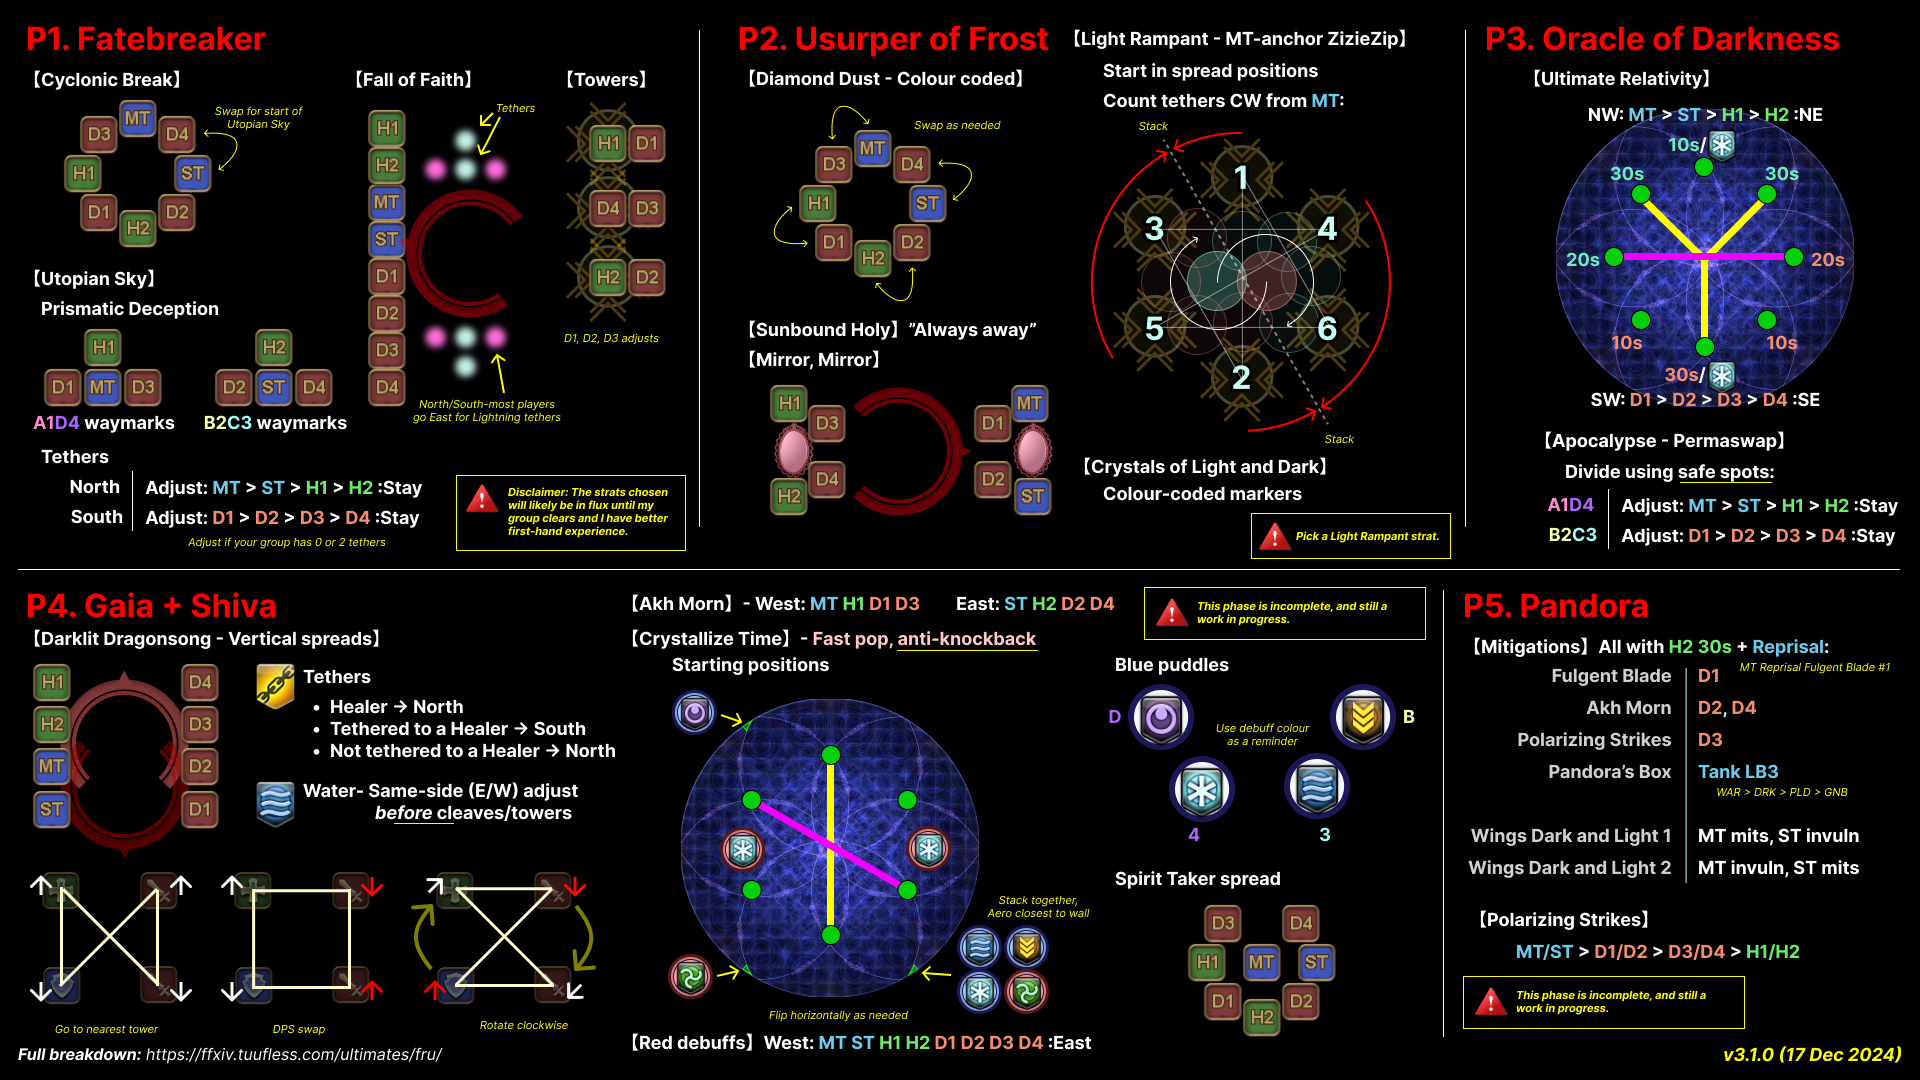
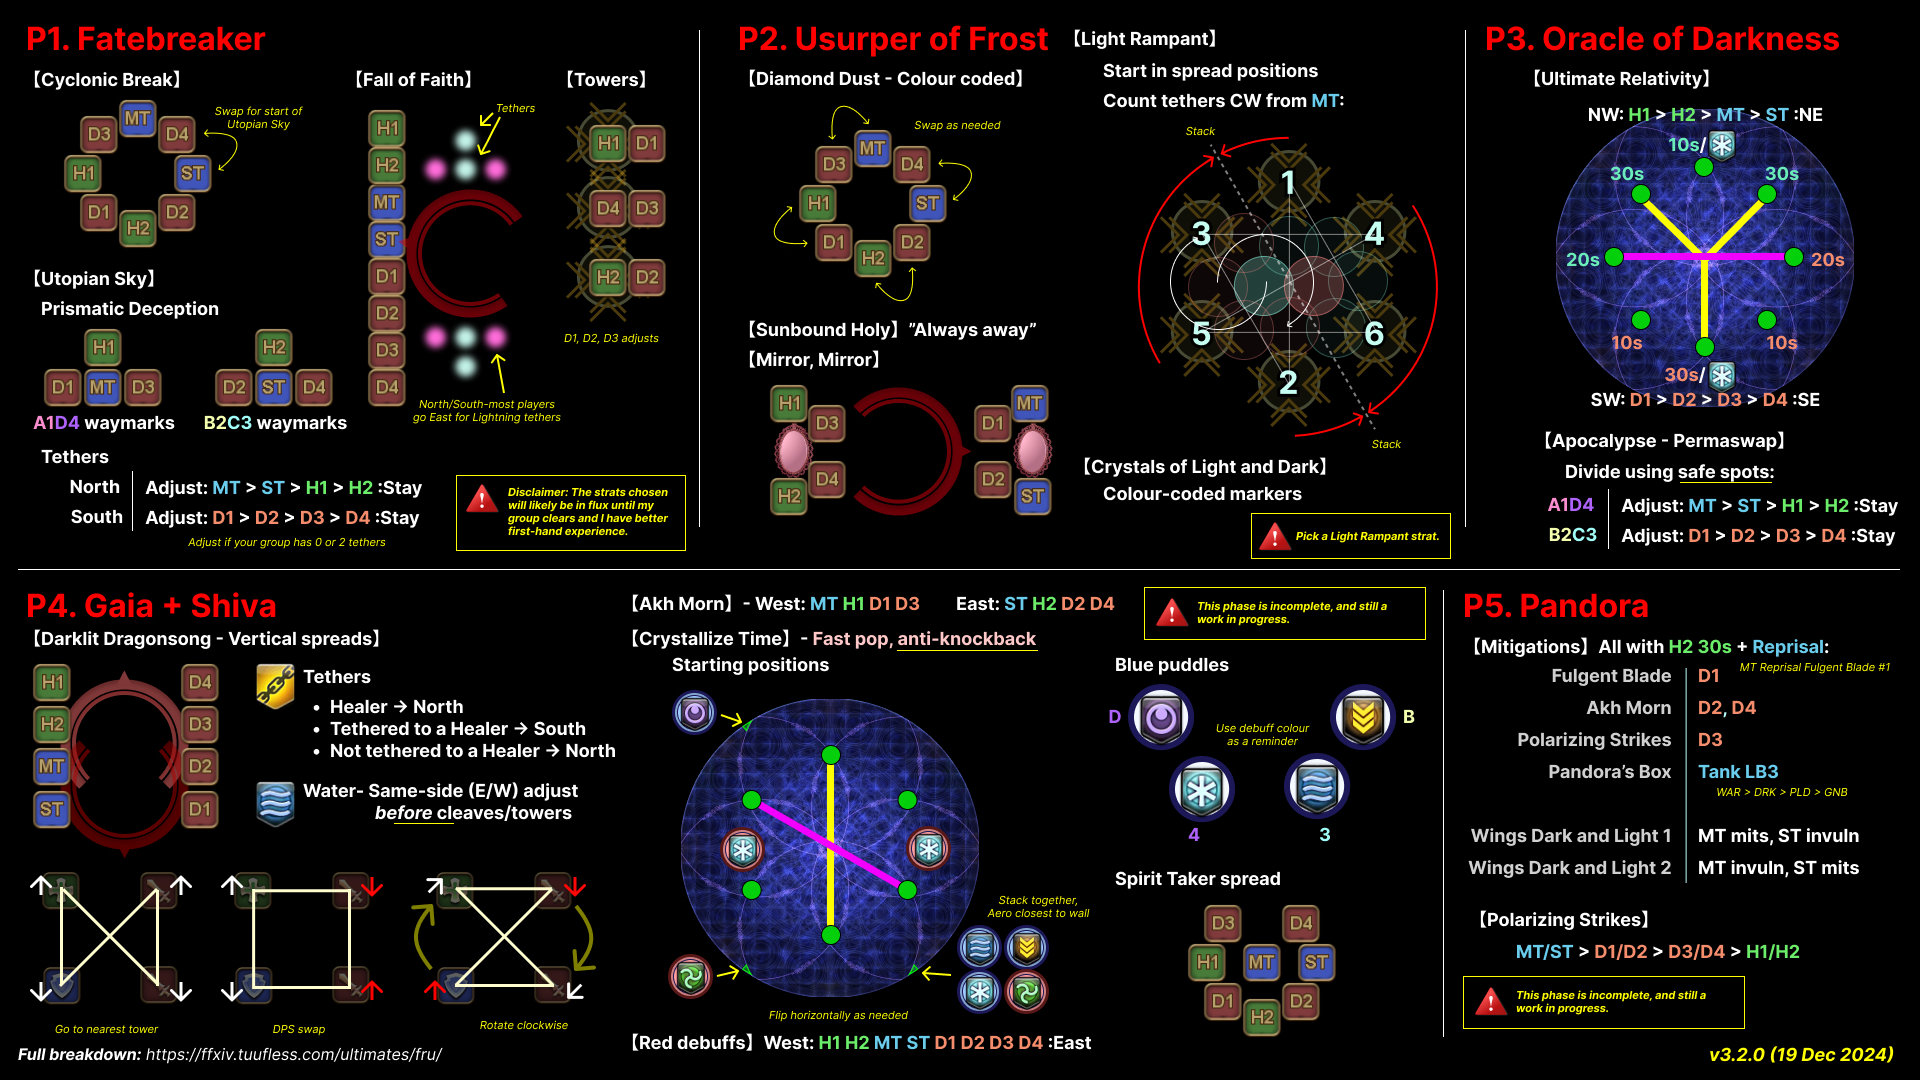
Update priorities to H1 H2 MT ST

diff --git a/_ultimates/fru/03_oracle_of_darkness.en.md b/_ultimates/fru/03_oracle_of_darkness.en.md
@@ -1,6 +1,6 @@
 ---
 layout: default
-title: 3. Oracle of Darkness v1.0
+title: 3. Oracle of Darkness v1.1
 parent: Lv 100. FRU (WIP)
 nav_order: 3
 has_children: false
@@ -8,11 +8,11 @@ has_toc: false
 permalink: /ultimates/fru/03_oracle_of_darkness/
 ---
 
-# Oracle of Darkness v1.0
+# Oracle of Darkness v1.1
 
-This is version 1.0, that's based off the Google Doc. The main differences are:
+This is version 1.1, that's based off the Google Doc. The main differences are:
 
-- The priority for *Ultimate Relativity* is the standard T > H > M > R.
+- The priority for *Ultimate Relativity* is "H > T > **M > R**" instead of "H > T > **R > M**".
 - *Apocalypse* is resolved with the permaswap, coloured safespots strat.
 
 <div style="background-color: #200 ; padding: 10px; border: 1px solid;">
@@ -24,6 +24,7 @@ until I have better first-hand experience.</b></p>
 - [**Apocalypse - Permaswap, Safespot Colour**](#apocalypse---permaswap-safespot-colour)
 - [**Frequently Asked Questions**](#frequently-asked-questions)
 - [**Troubleshooting**](#troubleshooting)
+- [**Changelog**](#changelog)
 
 The Oracle of Darkness starts south, and immediately opens with *Hell's
 Judgment*, which sets everyone to 1HP.
@@ -69,7 +70,7 @@ better match the datacenter's conventions.
       <ul>
         <li>For the tank/healer long Fires, use the following priority:
           <ul>
-            <li><b>NW: </b> MT > ST > H1 > H2 <b>:NE</b></li>
+            <li><b>NW: </b> H1 > H2 > MT > ST <b>:NE</b></li>
           </ul>
         </li>
         <li>For the DPS short Fires, use the following priority:
@@ -552,6 +553,22 @@ must be brought down to under 20.0% HP to advance.
   </tr>
 </table>
 </details>
+
+
+---
+
+## Changelog
+
+<table>
+  <tr>
+    <td>
+      <ul>
+        <li>19 Dec 2024 (v1.1): Updated Ultimate Relativity prio from MT ST H1
+        H2 to H1 H2 MT ST.</li>
+      </ul>
+    </td>
+  </tr>
+</table>
 
 <script data-goatcounter="https://tuufless.goatcounter.com/count"
         async src="//gc.zgo.at/count.js"></script>

diff --git a/_ultimates/fru/04_gaia_and_shiva.md b/_ultimates/fru/04_gaia_and_shiva.md
@@ -274,12 +274,12 @@ The party will also get a bunch of debuffs to resolve.
       <p>The Blizzard players will stand East and West, between the 
       hourglasses:</p>
       <ul>
-        <li><b>West:</b> MT ST H1 H2 D1 D2 D3 D4 <b>:East</b></li>
+        <li><b>West:</b> H1 H2 MT ST D1 D2 D3 D4 <b>:East</b></li>
       </ul>
       <p>The Aero players will stand South-West and South-East, at the 
       intercardinal mark:</p>
       <ul>
-        <li><b>South-West:</b> MT ST H1 H2 D1 D2 D3 D4 <b>:South-East</b></li>
+        <li><b>South-West:</b> H1 H2 MT ST D1 D2 D3 D4 <b>:South-East</b></li>
       </ul>
     </td>
     <td>

diff --git a/_ultimates/fru/01_fatebreaker.en.md b/_ultimates/fru/01_fatebreaker.en.md
@@ -12,13 +12,12 @@ permalink: /ultimates/fru/01_fatebreaker/
 
 This is version 2.0, that takes the raidplan and Discord polls together.
 
-- [**Changelog**](#changelog)
-
 - [**Cyclonic Break**](#cyclonic-break)
 - [**Utopian Sky**](#utopian-sky)
 - [**Fall of Faith**](#fall-of-faith)
 - [**Towers**](#towers)
 - [**Frequently Asked Questions**](#frequently-asked-questions)
+- [**Changelog**](#changelog)
 
 ## Cyclonic Break
 

diff --git a/_ultimates/fru/index.en.md b/_ultimates/fru/index.en.md
@@ -13,11 +13,11 @@ Elemental's FRU PF strat is currently a **work in progress**.
 
 <div style="padding: 10px; border: 1px solid;">
 <ul>
-  <li><b>Current version: v3.1.0</b>
+  <li><b>Current version: v3.2.0</b>
     <ul>
       <li>Fatebreaker: v2.0.0</li>
       <li>Usurper of Frost: v3.1.0</li>
-      <li>Oracle of Darkness: v1.0.0</li>
+      <li>Oracle of Darkness: v1.1.0</li>
     </ul>
   </li>
 </ul>
